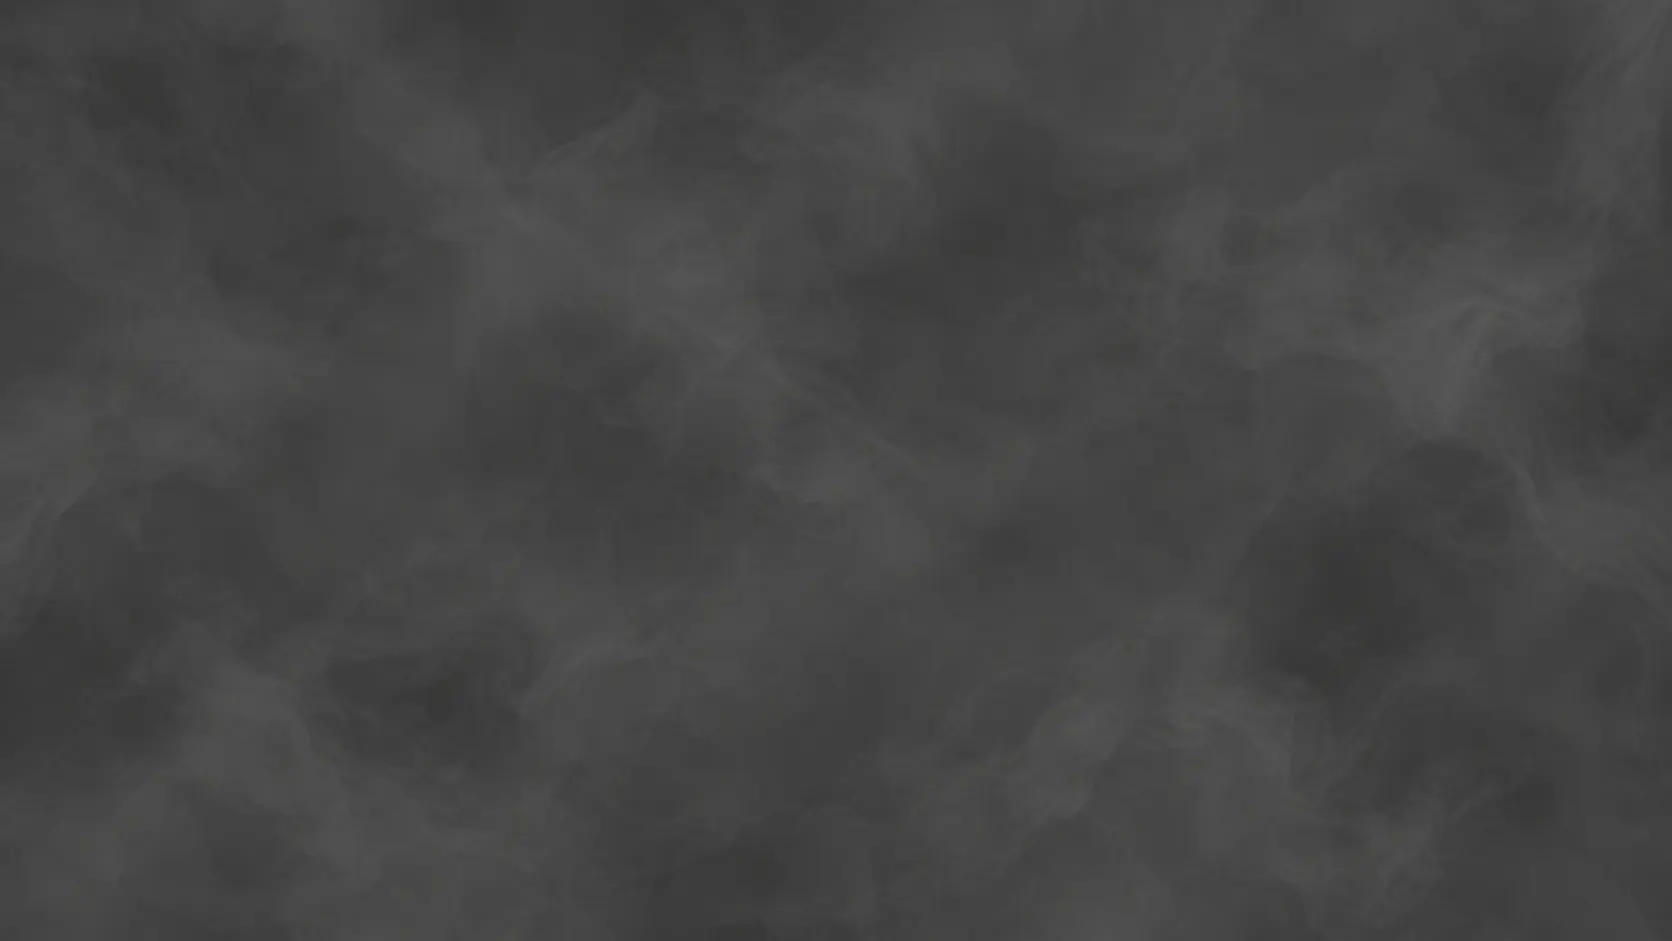
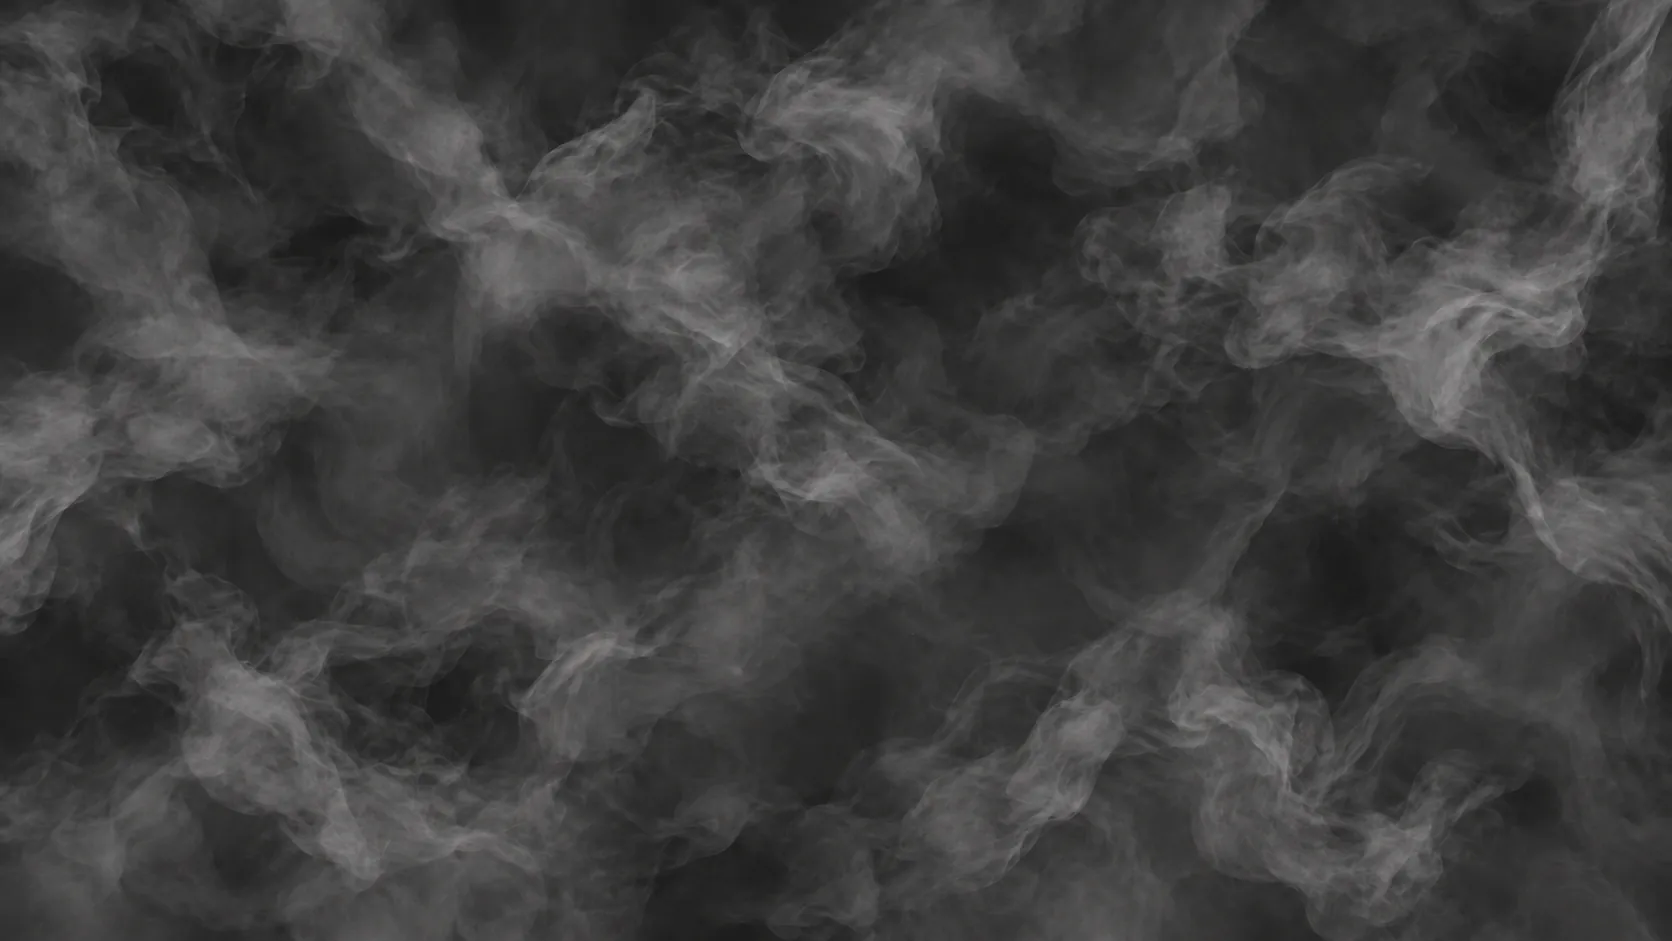
Increase gallery smoke contrast

diff --git a/src/styles/global.css b/src/styles/global.css
@@ -27,11 +27,11 @@ nav a[aria-current] { color: #f2f2f2; padding-bottom: 4px; border-bottom: 1px so
 .section-heading { margin: 0; font-size: 26px; font-weight: 300; line-height: 1; padding-bottom: 16px; border-bottom: 1px solid rgba(255, 255, 255, .3); }
 .works { padding-top: 28px; }
 .gallery { position: relative; isolation: isolate; display: flex; flex-wrap: wrap; align-items: flex-start; gap: 64px 40px; padding: 28px 0 0; margin: 0; list-style: none; }
-.gallery::before { content: ''; position: absolute; z-index: -1; inset: 0 calc(50% - 50vw); background-color: #3b3b3b; background-image: url('/gallery-smoke.webp'); background-position: center; background-size: cover; background-repeat: no-repeat; background-attachment: fixed; pointer-events: none; }
+.gallery::before { content: ''; position: absolute; z-index: -1; inset: 0 calc(50% - 50vw); background-color: #1c1c1c; background-image: url('/gallery-smoke.webp'); background-position: center; background-size: cover; background-repeat: no-repeat; background-attachment: fixed; pointer-events: none; }
 .gallery > li { flex: 0 0 calc(50% - 20px); min-width: 0; }
 .work-link { display: flex; flex-direction: column; gap: 12px; }
 .work-link:hover { text-decoration: none; }
-.work-frame { display: block; overflow: hidden; border: 1px solid #303033; background: #303033; }
+.work-frame { display: block; overflow: hidden; border: 0; background: transparent; }
 .work-frame img { width: 100%; height: auto; }
 .work-link:hover .work-caption { text-decoration: underline; text-underline-offset: .22em; text-decoration-thickness: 1px; }
 .work-caption { display: flex; justify-content: space-between; align-items: baseline; gap: 12px; font-size: 14px; color: #8c8c8c; }
